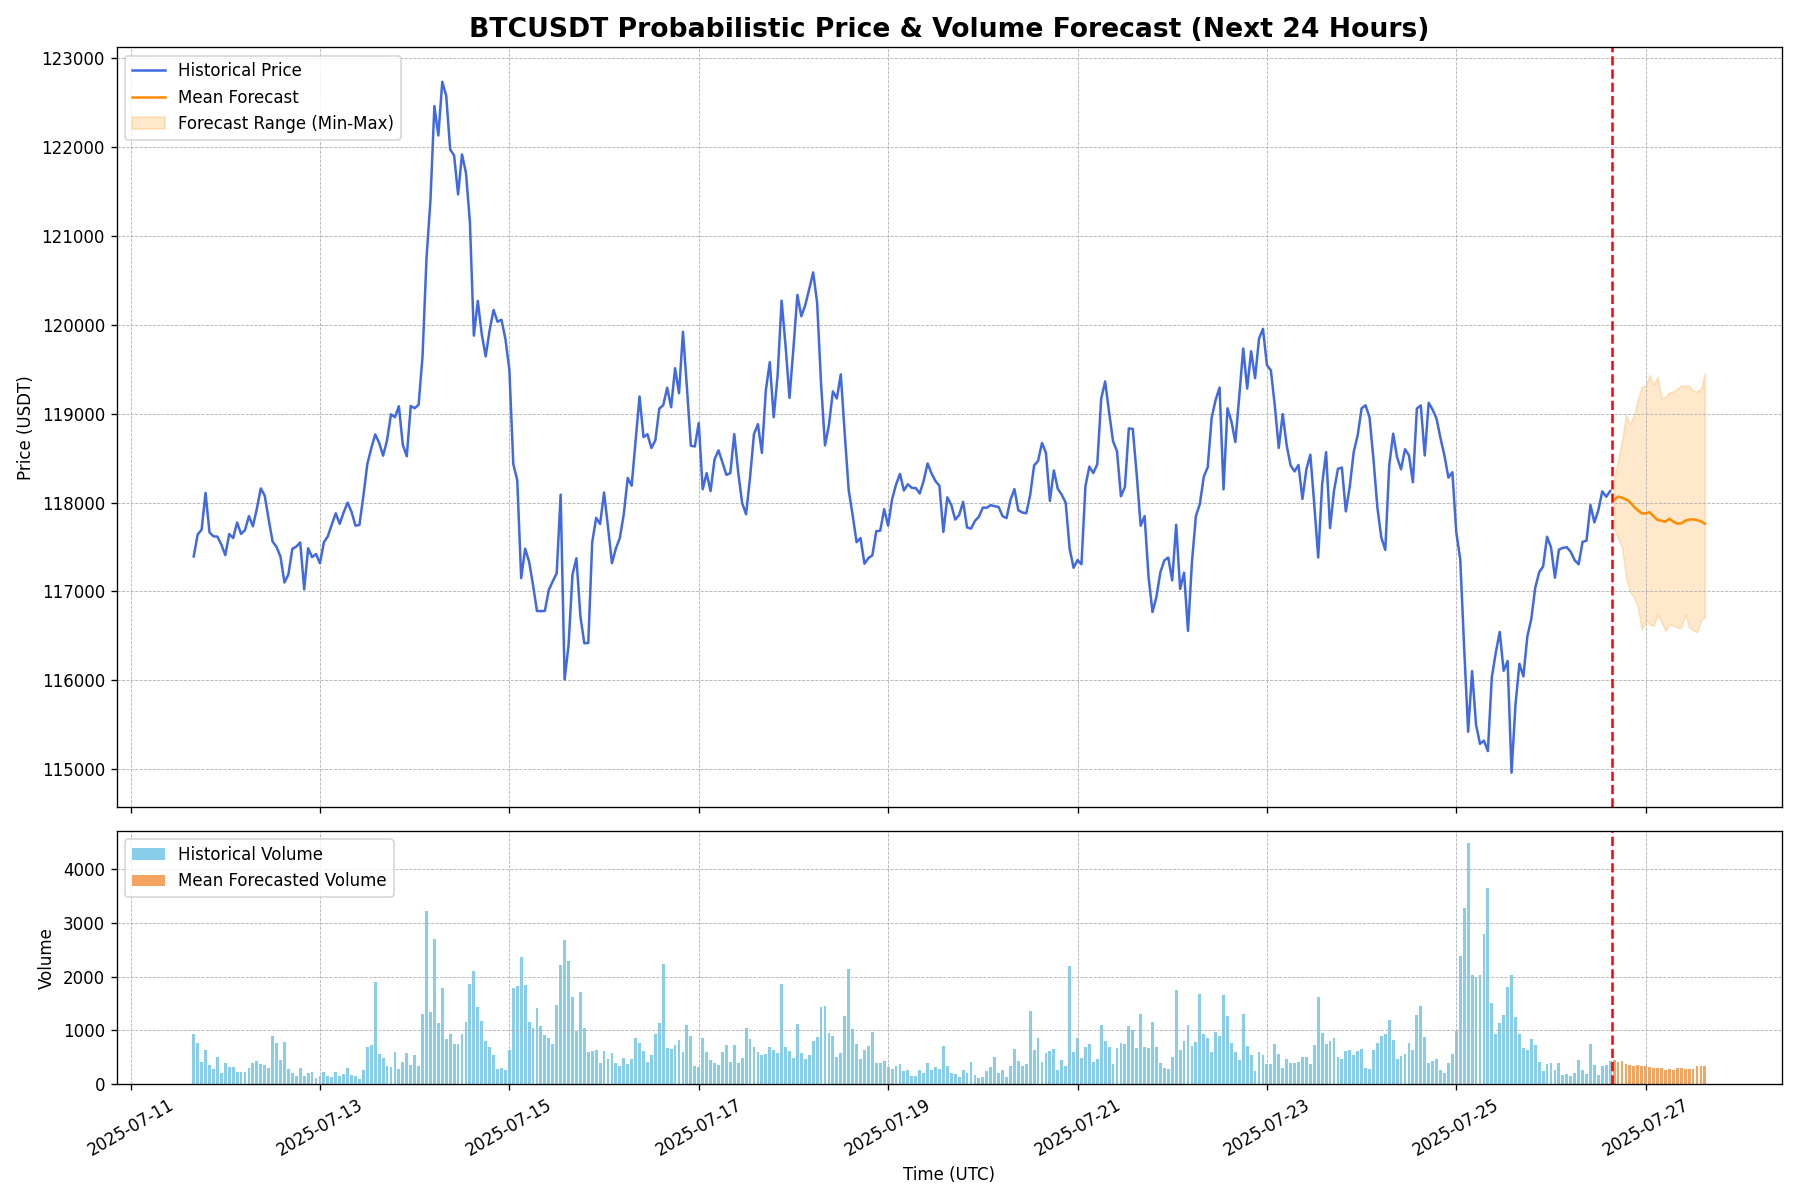
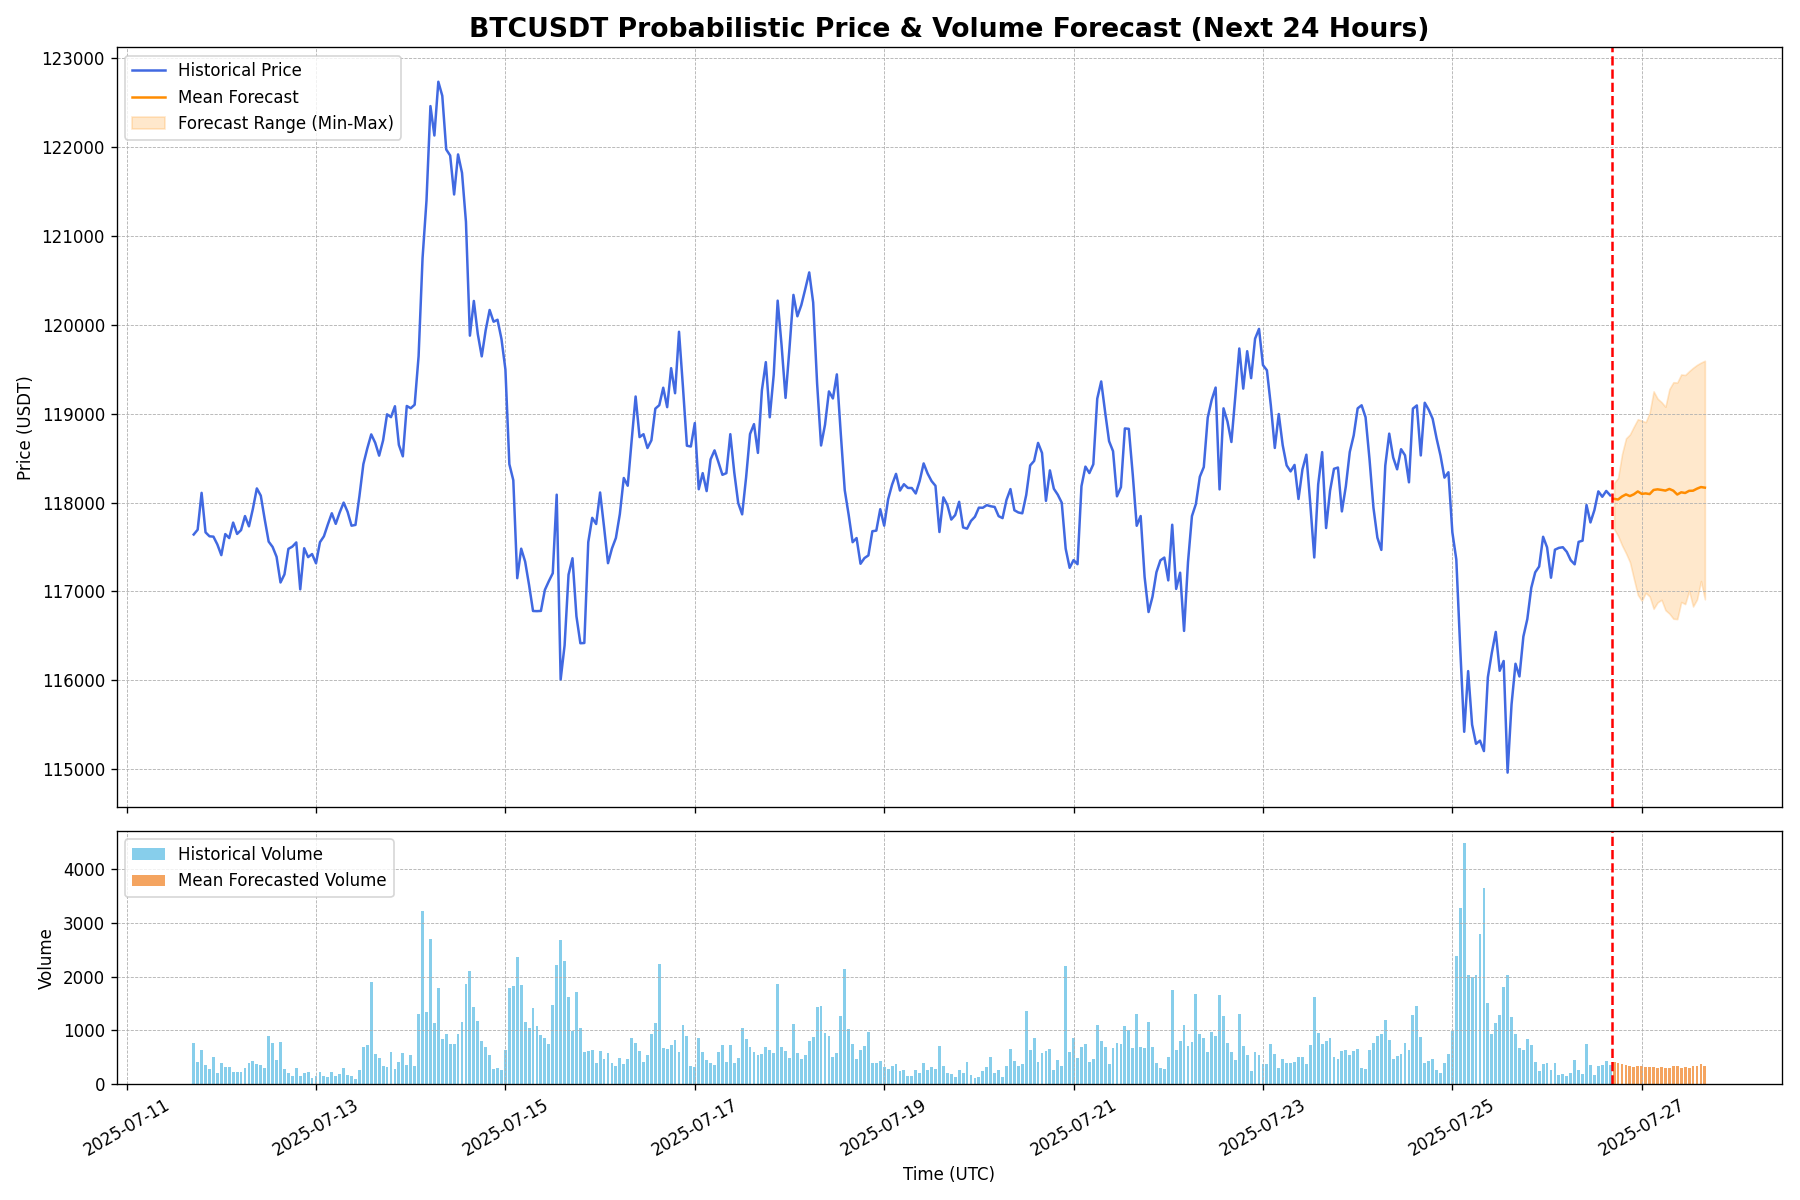
Auto-update forecast for 2025-07-26 17:05 UTC

diff --git a/index.html b/index.html
@@ -22,19 +22,19 @@
         <section id="live-dashboard">
             <h2>Live BTC/USDT Forecast Dashboard</h2>
             <div class="metadata">
-                <span>Last Updated (UTC): <strong id="update-time">2025-07-26 16:05:56</strong></span>
+                <span>Last Updated (UTC): <strong id="update-time">2025-07-26 17:05:58</strong></span>
                 <span>Data Source: Binance | Interval: 1-Hour</span>
             </div>
 
             <div class="metrics-container">
                 <div class="metric-card">
                     <h3>Upside Probability (Next 24h)</h3>
-                    <p class="metric-value" id="upside-prob">33.3%</p>
+                    <p class="metric-value" id="upside-prob">50.0%</p>
                     <div class="metric-desc">The model's confidence that the price in 24 hours will be higher than the last known price.</div>
                 </div>
                 <div class="metric-card">
                     <h3>Volatility Amplification (Next 24h)</h3>
-                    <p class="metric-value" id="vol-amp-prob">40.0%</p>
+                    <p class="metric-value" id="vol-amp-prob">43.3%</p>
                     <div class="metric-desc">The probability that predicted volatility over the next 24h will exceed recent historical volatility.</div>
                 </div>
             </div>
